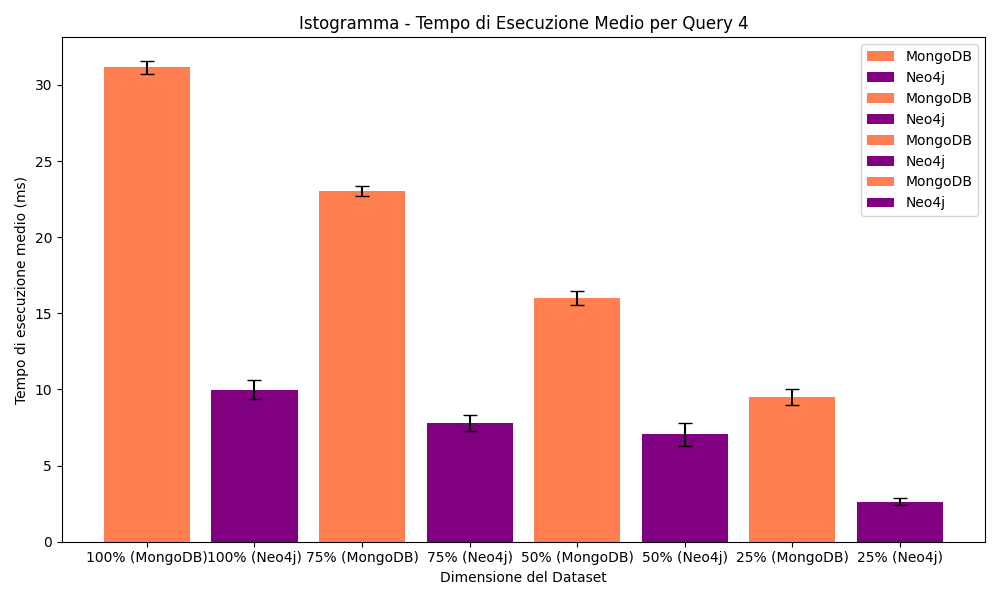
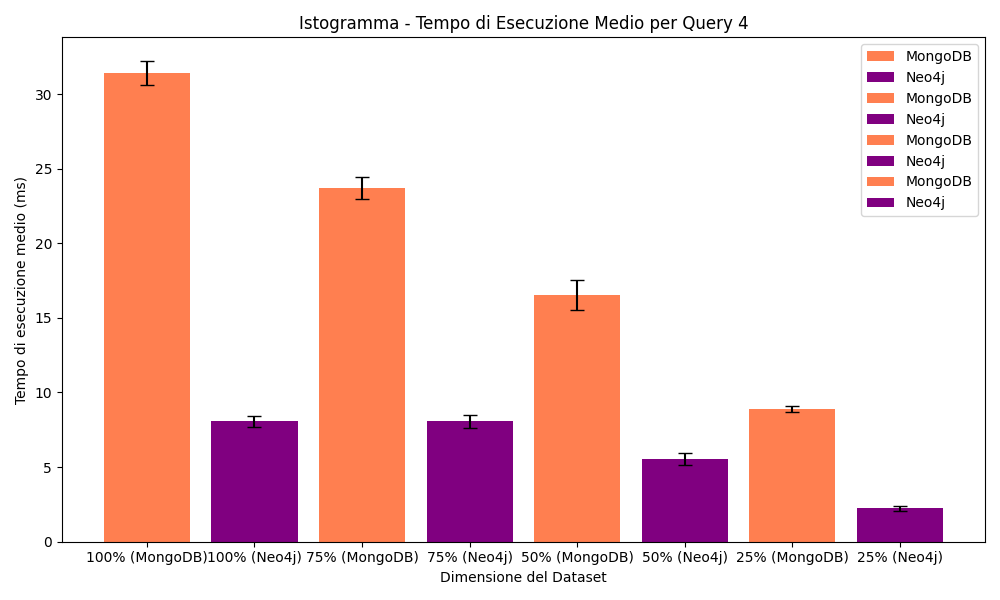
First Commit

diff --git a/MongoDB/Istogramma.py b/MongoDB/Istogramma.py
@@ -1,24 +1,24 @@
 import pandas as pd
 import matplotlib.pyplot as plt
 import re
-import os
 
 # Specifica i percorsi completi dei file CSV per MongoDB e Neo4j
 mongo_csv_paths = [
-    "C:\\Users\\lucac\\PycharmProjects\\pythonProject\\Progetto Database 2\\tempi_di_risposta_media_30_MDB.csv",
-    "C:\\Users\\lucac\\PycharmProjects\\pythonProject\\Progetto Database 2\\tempi_di_risposta_prima_esecuzione_MDB.csv"
+    "C:\\Users\\lucac\\PycharmProjects\\pythonProject\\MongoDB\\tempi_di_risposta_prima_esecuzione_MDB.csv",
+    "C:\\Users\\lucac\\PycharmProjects\\pythonProject\\MongoDB\\tempi_di_risposta_media_30_MDB.csv",
 ]
 
 neo4j_csv_paths = [
+    "C:\\Users\\lucac\\PycharmProjects\\pythonProject\\Neo4j\\tempi_di_risposta_prima_esecuzione.csv",
     "C:\\Users\\lucac\\PycharmProjects\\pythonProject\\Neo4j\\tempi_di_risposta_media_30.csv",
-    "C:\\Users\\lucac\\PycharmProjects\\pythonProject\\Neo4j\\tempi_di_risposta_prima_esecuzione.csv"
 ]
 
 # Leggi i dati dai file CSV
-data_mongo = pd.concat(
-    [pd.read_csv(file, sep=',', dtype={'Intervallo di Confidenza (Min, Max)': str}) for file in mongo_csv_paths])
-data_neo4j = pd.concat(
-    [pd.read_csv(file, sep=',', dtype={'Intervallo di Confidenza (Min, Max)': str}) for file in neo4j_csv_paths])
+data_mongo_prima_esecuzione = pd.read_csv(mongo_csv_paths[0], sep=',', dtype={'Intervallo di Confidenza (Min, Max)': str})
+data_mongo_media_30 = pd.read_csv(mongo_csv_paths[1], sep=',', dtype={'Intervallo di Confidenza (Min, Max)': str})
+
+data_neo4j_prima_esecuzione = pd.read_csv(neo4j_csv_paths[0], sep=',', dtype={'Intervallo di Confidenza (Min, Max)': str})
+data_neo4j_media_30 = pd.read_csv(neo4j_csv_paths[1], sep=',', dtype={'Intervallo di Confidenza (Min, Max)': str})
 
 # Lista delle dimensioni del dataset
 dataset_sizes = ['100%', '75%', '50%', '25%']
@@ -30,7 +30,6 @@ queries = ['Query 1', 'Query 2', 'Query 3', 'Query 4']
 color_mongo = 'coral'
 color_neo4j = 'purple'
 
-
 # Funzione per estrarre i valori minimi e massimi dall'intervallo di confidenza
 def extract_confidence_values(confidence_interval_str):
     if isinstance(confidence_interval_str, float):
@@ -39,20 +38,22 @@ def extract_confidence_values(confidence_interval_str):
     matches = re.findall(r'\d+\.\d+', confidence_interval_str)
     return float(matches[0]), float(matches[1])
 
-
 # Per ogni query, crea gli istogrammi
 for query in queries:
     # Filtra i dati per la query corrente
-    data_mongo_query = data_mongo[data_mongo['Query'] == query]
-    data_neo4j_query = data_neo4j[data_neo4j['Query'] == query]
+    data_mongo_query_prima_esecuzione = data_mongo_prima_esecuzione[data_mongo_prima_esecuzione['Query'] == query]
+    data_mongo_query_media_30 = data_mongo_media_30[data_mongo_media_30['Query'] == query]
+
+    data_neo4j_query_prima_esecuzione = data_neo4j_prima_esecuzione[data_neo4j_prima_esecuzione['Query'] == query]
+    data_neo4j_query_media_30 = data_neo4j_media_30[data_neo4j_media_30['Query'] == query]
 
     # Crea il primo istogramma con i tempi della prima esecuzione
     plt.figure(figsize=(10, 6))
     for size in dataset_sizes:
-        values_mongo = data_mongo_query[data_mongo_query['Dataset'] == size]['Millisecondi']
-        values_neo4j = data_neo4j_query[data_neo4j_query['Dataset'] == size]['Millisecondi']
+        values_mongo_prima_esecuzione = data_mongo_query_prima_esecuzione[data_mongo_query_prima_esecuzione['Dataset'] == size]['Millisecondi']
+        values_neo4j_prima_esecuzione = data_neo4j_query_prima_esecuzione[data_neo4j_query_prima_esecuzione['Dataset'] == size]['Millisecondi']
 
-        plt.bar([f"{size} (MongoDB)", f"{size} (Neo4j)"], [values_mongo.values[0], values_neo4j.values[0]],
+        plt.bar([f"{size} (MongoDB)", f"{size} (Neo4j)"], [values_mongo_prima_esecuzione.values[0], values_neo4j_prima_esecuzione.values[0]],
                 color=[color_mongo, color_neo4j])
 
     plt.xlabel('Dimensione del Dataset')
@@ -74,13 +75,13 @@ for query in queries:
     # Crea il secondo istogramma con le medie dei tempi
     plt.figure(figsize=(10, 6))
     for size in dataset_sizes:
-        values_mongo = data_mongo_query[data_mongo_query['Dataset'] == size]['Media']
-        values_neo4j = data_neo4j_query[data_neo4j_query['Dataset'] == size]['Media']
+        values_mongo_media_30 = data_mongo_query_media_30[data_mongo_query_media_30['Dataset'] == size]['Media']
+        values_neo4j_media_30 = data_neo4j_query_media_30[data_neo4j_query_media_30['Dataset'] == size]['Media']
 
         # Estrae intervalli di confidenza
-        confidence_intervals_mongo = data_mongo_query[data_mongo_query['Dataset'] == size][
+        confidence_intervals_mongo = data_mongo_query_media_30[data_mongo_query_media_30['Dataset'] == size][
             'Intervallo di Confidenza (Min, Max)']
-        confidence_intervals_neo4j = data_neo4j_query[data_neo4j_query['Dataset'] == size][
+        confidence_intervals_neo4j = data_neo4j_query_media_30[data_neo4j_query_media_30['Dataset'] == size][
             'Intervallo di Confidenza (Min, Max)']
         conf_intervals_mongo = [extract_confidence_values(conf_str) for conf_str in confidence_intervals_mongo]
         conf_intervals_neo4j = [extract_confidence_values(conf_str) for conf_str in confidence_intervals_neo4j]
@@ -92,12 +93,12 @@ for query in queries:
         conf_neo4j_max = [conf[1] for conf in conf_intervals_neo4j]
 
         # Calcolo la differenza tra il valore medio e gli estremi dell'intervallo di confidenza
-        mongo_yerr = [[values_mongo.values[0] - conf_mongo_min[0]], [conf_mongo_max[0] - values_mongo.values[0]]]
-        neo4j_yerr = [[values_neo4j.values[0] - conf_neo4j_min[0]], [conf_neo4j_max[0] - values_neo4j.values[0]]]
+        mongo_yerr = [[values_mongo_media_30.values[0] - conf_mongo_min[0]], [conf_mongo_max[0] - values_mongo_media_30.values[0]]]
+        neo4j_yerr = [[values_neo4j_media_30.values[0] - conf_neo4j_min[0]], [conf_neo4j_max[0] - values_neo4j_media_30.values[0]]]
 
         # Rappresenta l'intervallo di confidenza per MongoDB e Neo4j
-        plt.bar(f"{size} (MongoDB)", values_mongo.values[0], yerr=mongo_yerr, capsize=5, color=color_mongo, label='MongoDB')
-        plt.bar(f"{size} (Neo4j)", values_neo4j.values[0], yerr=neo4j_yerr, capsize=5, color=color_neo4j, label='Neo4j')
+        plt.bar(f"{size} (MongoDB)", values_mongo_media_30.values[0], yerr=mongo_yerr, capsize=5, color=color_mongo, label='MongoDB')
+        plt.bar(f"{size} (Neo4j)", values_neo4j_media_30.values[0], yerr=neo4j_yerr, capsize=5, color=color_neo4j, label='Neo4j')
 
     plt.xlabel('Dimensione del Dataset')
     plt.ylabel('Tempo di esecuzione medio (ms)')
